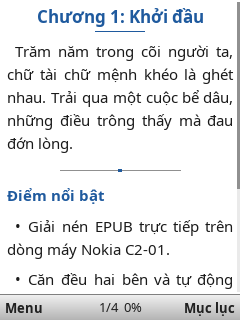
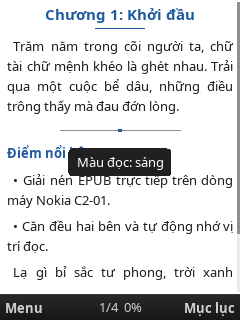
Update README with concise overview and new showcase screenshots

diff --git a/tools/CaptureShowcase.java b/tools/CaptureShowcase.java
@@ -59,22 +59,27 @@ public class CaptureShowcase {
         Mobile.lcdWidth = 240;
         Mobile.lcdHeight = 320;
         Mobile.isAAEnabled = true;
-        Mobile.setPlatform(new MobilePlatform(240, 320), new Runnable() {
+        MobilePlatform mp = new MobilePlatform(240, 320);
+        java.util.HashMap map = new java.util.HashMap();
+        map.put("MIDlet-Vendor", "linh");
+        map.put("MIDlet-Name", "BookReader");
+        mp.loader = new org.recompile.mobile.MIDletLoader(new File("dist/BookReader.jar").toURI().toURL(), map);
+        Mobile.setPlatform(mp, new Runnable() {
             public void run() {}
         });
         Mobile.setDisplay(new Display());
 
         // 1. Library screen
-        ListScreen lib = new ListScreen(null, "Thư viện");
-        lib.add("Dế Mèn Phiêu Lưu Ký", Ui.I_BOOK);
-        lib.add("Truyện Kiều - Nguyễn Du", Ui.I_BOOK);
-        lib.add("Số Đỏ - Vũ Trọng Phụng", Ui.I_BOOK);
-        lib.add("Tắt Đèn - Ngô Tất Tố", Ui.I_BOOK);
-        lib.add("Chí Phèo - Nam Cao", Ui.I_BOOK);
-        lib.add("Vang Bóng Một Thời", Ui.I_BOOK);
-        lib.add("Lão Hạc - Tuyển Tập", Ui.I_BOOK);
+        Store.putInt("ui_theme", 1);
+        ListScreen lib = new ListScreen(null, "BookReader");
+        lib.setTabs(new String[]{"Ưa thích", "Tất cả sách"}, 0);
+        lib.add("Dế Mèn Phiêu Lưu Ký", Ui.I_STAR);
+        lib.add("Truyện Kiều - Nguyễn Du", Ui.I_STAR);
+        lib.add("Số Đỏ - Vũ Trọng Phụng", Ui.I_STAR);
+        lib.add("Tắt Đèn - Ngô Tất Tố", Ui.I_STAR);
+        lib.add("Chí Phèo - Nam Cao", Ui.I_STAR);
         lib.setSelected(1);
-        lib.setSoftKeys("Thư mục", "Thoát");
+        lib.setSoftKeys("Menu", "Thoát");
         dump(lib, new File(outDir, "library.png"));
 
         // 2. Reader screens (Light, Sepia, Dark)
@@ -91,14 +96,17 @@ public class CaptureShowcase {
         // 3. Menu screen
         ListScreen menu = new ListScreen(null, "Menu");
         menu.add("Tiếp tục đọc", Ui.I_BOOK);
+        menu.add("☆ Thêm vào ưa thích", Ui.I_STAR);
         menu.add("Mục lục", Ui.I_PAGE);
         menu.add("Đi tới %", Ui.I_PAGE);
         menu.add("Cỡ chữ: vừa", Ui.I_GEAR);
-        menu.add("Giao diện: sepia", Ui.I_GEAR);
-        menu.add("Danh sách sách", Ui.I_FOLDER);
+        menu.add("Giao diện: tối", Ui.I_GEAR);
+        menu.add("Màu đọc: sáng", Ui.I_GEAR);
+        menu.add("Mục ưa thích", Ui.I_STAR);
+        menu.add("Tất cả sách", Ui.I_BOOK);
         menu.add("Hướng dẫn phím", Ui.I_GEAR);
         menu.add("Thoát", Ui.I_GEAR);
-        menu.setSelected(0);
+        menu.setSelected(5);
         menu.setSoftKeys("Chọn", "Quay lại");
         dump(menu, new File(outDir, "menu.png"));
 

diff --git a/README.md b/README.md
@@ -1,78 +1,59 @@
 # BookReader (J2ME, Nokia C2-01)
 
-Ứng dụng đọc sách **EPUB, HTML/XHTML, TXT** cho điện thoại Nokia Series 40 (CLDC 1.1 / MIDP 2.1 + JSR-75 FileConnection).
+Ứng dụng đọc sách **EPUB, HTML/XHTML, TXT** tối ưu cho điện thoại Java Nokia Series 40 (CLDC 1.1 / MIDP 2.0 + JSR-75 FileConnection).
 
-## Giao diện (Showcase)
+## Giao diện
 
-| Thư viện sách | Giao diện Sáng | Giao diện Sepia | Giao diện Tối | Menu |
+| Thư viện (Ưa thích) | Menu cài đặt | Đọc nền Sáng | Đọc nền Sepia | Đọc nền Tối |
 |:---:|:---:|:---:|:---:|:---:|
-| ![Thư viện](docs/library.png) | ![Sáng](docs/reader-light.png) | ![Sepia](docs/reader-sepia.png) | ![Tối](docs/reader-dark.png) | ![Menu](docs/menu.png) |
+| ![Thư viện](docs/library.png) | ![Menu](docs/menu.png) | ![Sáng](docs/reader-light.png) | ![Sepia](docs/reader-sepia.png) | ![Tối](docs/reader-dark.png) |
 
-## Tính năng chính
-- **Giao diện phong cách Opera Mini 4.4:** Thanh tiêu đề và phím mềm chuyển màu (gradient), danh sách nhỏ gọn kèm biểu tượng trực quan, thanh cuộn mảnh và thanh tiến độ đọc dưới chân trang.
-- **Thư viện sách cố định:** Lần đầu mở ứng dụng, bạn chọn thư mục chứa sách; những lần mở sau ứng dụng hiển thị thẳng danh sách sách trong thư viện (có thể đổi thư mục bất cứ lúc nào).
-- **Trình bày văn bản (Typography):**
-  - Phân biệt tiêu đề chính (`h1`, `h2` căn giữa, in đậm, gạch chân nhấn), tiêu đề phụ (`h3`–`h6`), danh sách (`•`), đường kẻ ngang (`hr`).
-  - Thụt đầu dòng, giãn khoảng cách đoạn và **căn đều hai bên (justify)** cho đoạn văn.
-  - 3 cỡ chữ (nhỏ, vừa, lớn) và 3 giao diện màu (Sáng, Tối, Sepia).
-- **Tối ưu chống tràn bộ nhớ (Anti-OOM cho heap ~2 MB):**
-  - Tự cài đặt bộ giải nén **streaming DEFLATE** (`Inflate`) với cửa sổ trượt cố định 32 KB.
-  - Đọc và lọc thẻ HTML/XML (`content.opf`, `toc.ncx`, `nav.xhtml`, chương XHTML) trực tiếp trên luồng `InputStream`, không nạp toàn bộ mảng byte giải nén hay chuỗi HTML thô vào RAM.
-  - Tự động chia nhỏ chương siêu dài theo từng phần 32.000 ký tự và đọc file HTML/TXT rời theo từng cửa sổ 36 KB.
-- **Giảm hỏi quyền đọc file trên Nokia S40:** Giữ nguyên một kết nối `FileConnection` cho mỗi cuốn sách trong suốt quá trình đọc.
-- **Hỗ trợ hiển thị ảnh an toàn (Anti-OOM Image Rendering):**
-  - Đọc kích thước ảnh từ header file (JPEG, PNG, GIF) trực tiếp trên luồng không cần nạp bitmap vào RAM.
-  - Tự động hiển thị hình ảnh căn giữa vừa vặn nếu ảnh nằm trong ngưỡng an toàn ($\le 240\times 320$, dung lượng $\le 80$ KB).
-  - Tự động chuyển thành dòng chữ in nghiêng kèm biểu tượng placeholder `[Ảnh: ... (quá lớn)]` đối với các ảnh độ phân giải cao chưa được resize để bảo vệ máy tuyệt đối khỏi lỗi sập ứng dụng (OutOfMemoryError).
-  - Bộ nhớ cache ảnh chỉ giữ tối đa 3 ảnh và tự động dọn sạch khi chuyển trang/chương.
-- **Nhớ vị trí đọc (RMS):** Lưu chương, phần và dòng đang đọc cho từng cuốn sách.
+## Điểm nổi bật
+- **Phong cách Opera Mini 4.4:** Thanh tiêu đề và phím mềm chuyển màu (gradient), thanh cuộn mảnh, vạch tiến độ đọc tinh tế.
+- **Tách biệt Giao diện & Màu đọc:** Tùy chọn độc lập giữa giao diện ứng dụng (`sáng` / `tối`) và màu trang giấy đọc (`sáng` / `tối` / `sepia`). Cho phép đọc chữ nền sáng trên giao diện tối.
+- **Quản lý Thư viện:** Chia 2 tab *Ưa thích* và *Tất cả sách* (phím `*` để thêm/bỏ yêu thích, tự nhớ thư mục sách, menu cài đặt gọn gàng).
+- **Hỗ trợ Chú thích (Footnote):** Phím `7`/`9` để duyệt chú thích, `OK` để mở hộp thoại đọc nội dung chú thích (căn đều 2 lề, cuộn mượt).
+- **Trình bày văn bản chuẩn mực:** Căn đều 2 bên (justify), thụt đầu dòng, phân cấp tiêu đề (`h1`–`h6`), chú thích ảnh in nghiêng.
+- **Chống tràn RAM tuyệt đối (Anti-OOM cho heap ~2 MB):**
+  - Giải nén luồng streaming DEFLATE với cửa sổ cố định 32 KB.
+  - Tự động chia nhỏ chương dài, đọc trực tiếp trên luồng InputStream.
+  - Kiểm tra kích thước ảnh từ header; tự động thu nhỏ hoặc thay bằng placeholder nếu ảnh quá lớn để chống sập ứng dụng.
+  - Giữ nguyên kết nối FileConnection, tránh hỏi quyền lặp lại trên Nokia S40.
 
-## Công cụ tối ưu sách EPUB cho Nokia C2-01
-Trước khi chép sách vào thẻ nhớ điện thoại, bạn có thể chạy script để tự động nén toàn bộ ảnh về chuẩn màn hình `232x280`:
-```bash
-# Cài Pillow nếu chưa có
-pip install Pillow
+## Phím tắt
 
-# Tối ưu một file EPUB (mặc định nén JPEG quality 60, mỗi ảnh chỉ còn 4-8 KB, load tức thì trên C2-01)
-./tools/optimize-epub.py "/duong/dan/sach.epub"
-
-# Tùy chọn chuyển ảnh sang trắng đen để siêu nhẹ:
-./tools/optimize-epub.py "/duong/dan/sach.epub" --grayscale
-
-# Xem trước trang sách trên máy tính (xuất file ảnh 240x320 Nokia C2-01):
-./tools/preview.sh "/duong/dan/sach_c201.epub" 0
-```
-
-## Build & Chạy thử
-```bash
-# Build ra dist/BookReader.jar và dist/BookReader.jad
-./build.sh
-
-# Đổi đường dẫn JDK 8 nếu cần
-JDK8=/duong/dan/jdk-8 ./build.sh
-
-# Chạy thử trên FreeJ2ME-Plus (cần cờ ISO_8859_1 trên JDK mới)
-java -Dfile.encoding=ISO_8859_1 -jar /mnt/data/apps/freej2me-plus/build/freej2me.jar \
-  file:///mnt/data/Work/mine/3.pets/j2me-bookreader/dist/BookReader.jar
-
-# Render lại bộ ảnh showcase (240x320) vào thư mục docs/
-./tools/capture-showcase.sh
-```
-*(Lưu ý: `lib/` đã chứa sẵn stub CLDC 1.1 / MIDP 2.0 / JSR-75 của MicroEmu và ProGuard để preverify bytecode).*
-
-## Phím điều khiển khi đọc
+### Khi đọc sách
 | Phím | Chức năng |
 |---|---|
-| `Lên` / `Xuống` (`2` / `8`) | Cuộn 3 dòng (khi mở chú thích: cuộn nội dung chú thích) |
-| `Trái` / `Phải` (`4` / `6`), `OK` (`5`) | Lùi / tiến trang (tự chuyển phần/chương khi hết; khi chọn chú thích: `OK` mở/đóng hộp thoại) |
-| `1` / `3` | Chương trước / chương sau |
-| `7` / `9` | Chú thích trước / chú thích tiếp theo (tự nhảy đến dòng chú thích & viền nổi bật) |
-| Giữ `*` + `Lên` / `Xuống` | Tăng / giảm cỡ chữ (có thông báo nhanh trên màn hình) |
-| Bấm `*` nhanh | Đổi vòng cỡ chữ (nhỏ → vừa → lớn) |
-| `#` | Đổi giao diện (Sáng → Tối → Sepia) |
-| Phím mềm trái | Mở Menu (Mục lục, Đi tới %, Cỡ chữ, Giao diện, Danh sách sách…) |
-| Phím mềm phải | Mở Mục lục |
+| `Lên` / `Xuống` (`2` / `8`) | Cuộn dòng (hoặc cuộn nội dung chú thích) |
+| `Trái` / `Phải` (`4` / `6`), `OK` (`5`) | Lùi / tiến trang (hoặc mở/đóng chú thích khi đang chọn) |
+| `1` / `3` | Chương trước / sau |
+| `7` / `9` | Chú thích trước / sau |
+| `*` (bấm nhanh / giữ + Lên/Xuống) | Đổi cỡ chữ (nhỏ, vừa, lớn) |
+| `#` | Đổi nhanh màu đọc (`sáng` → `tối` → `sepia`) |
+| Phím mềm trái (`Menu`) | Mở Menu tùy chọn (Mục lục, Đi tới %, Cỡ chữ, Giao diện, Màu đọc...) |
+| Phím mềm phải | Mở nhanh Mục lục |
 
-## Khi duyệt Danh sách sách / Mục lục
-- **Tự động cuộn chữ (Marquee)**: Khi dừng con trỏ ở cuốn sách hoặc chương có tên dài, chữ sẽ tự động cuộn ngang từ từ để bạn đọc trọn vẹn tiêu đề.
-- **Phím `0`** (hoặc `*` / `#`): Mở hộp thoại popup xem toàn bộ tên sách/chương đầy đủ (tự xuống dòng). Bấm `OK` để mở sách ngay hoặc bấm phím bất kỳ để đóng.
+### Trong danh sách sách / Mục lục
+| Phím | Chức năng |
+|---|---|
+| `Trái` / `Phải` (`4` / `6`) | Chuyển qua lại giữa tab *Ưa thích* và *Tất cả sách* |
+| `*` | Đánh dấu / Bỏ yêu thích cuốn sách đang chọn |
+| `0` | Xem tên đầy đủ của sách trong hộp thoại popup |
+| Cuộn ngang tự động (Marquee) | Tự cuộn tên sách dài khi dừng con trỏ |
+| Phím mềm trái (`Menu`) | Đổi thư mục sách, Giao diện, Màu đọc, Cỡ chữ... |
+
+## Cài đặt & Sử dụng
+- File cài đặt: [dist/BookReader.jar](dist/BookReader.jar) (kèm [dist/BookReader.jad](dist/BookReader.jad)).
+- Copy file `.jar` vào thẻ nhớ điện thoại (Nokia C2-01 hoặc máy hỗ trợ Java MIDP 2.0) và mở lên sử dụng.
+
+### Build từ mã nguồn
+```bash
+./build.sh
+```
+
+### Script tối ưu sách EPUB (tùy chọn)
+Tự động nén ảnh trong file EPUB về đúng chuẩn màn hình `232x280` trước khi chép vào máy:
+```bash
+./tools/optimize-epub.py "/duong/dan/sach.epub"
+```
